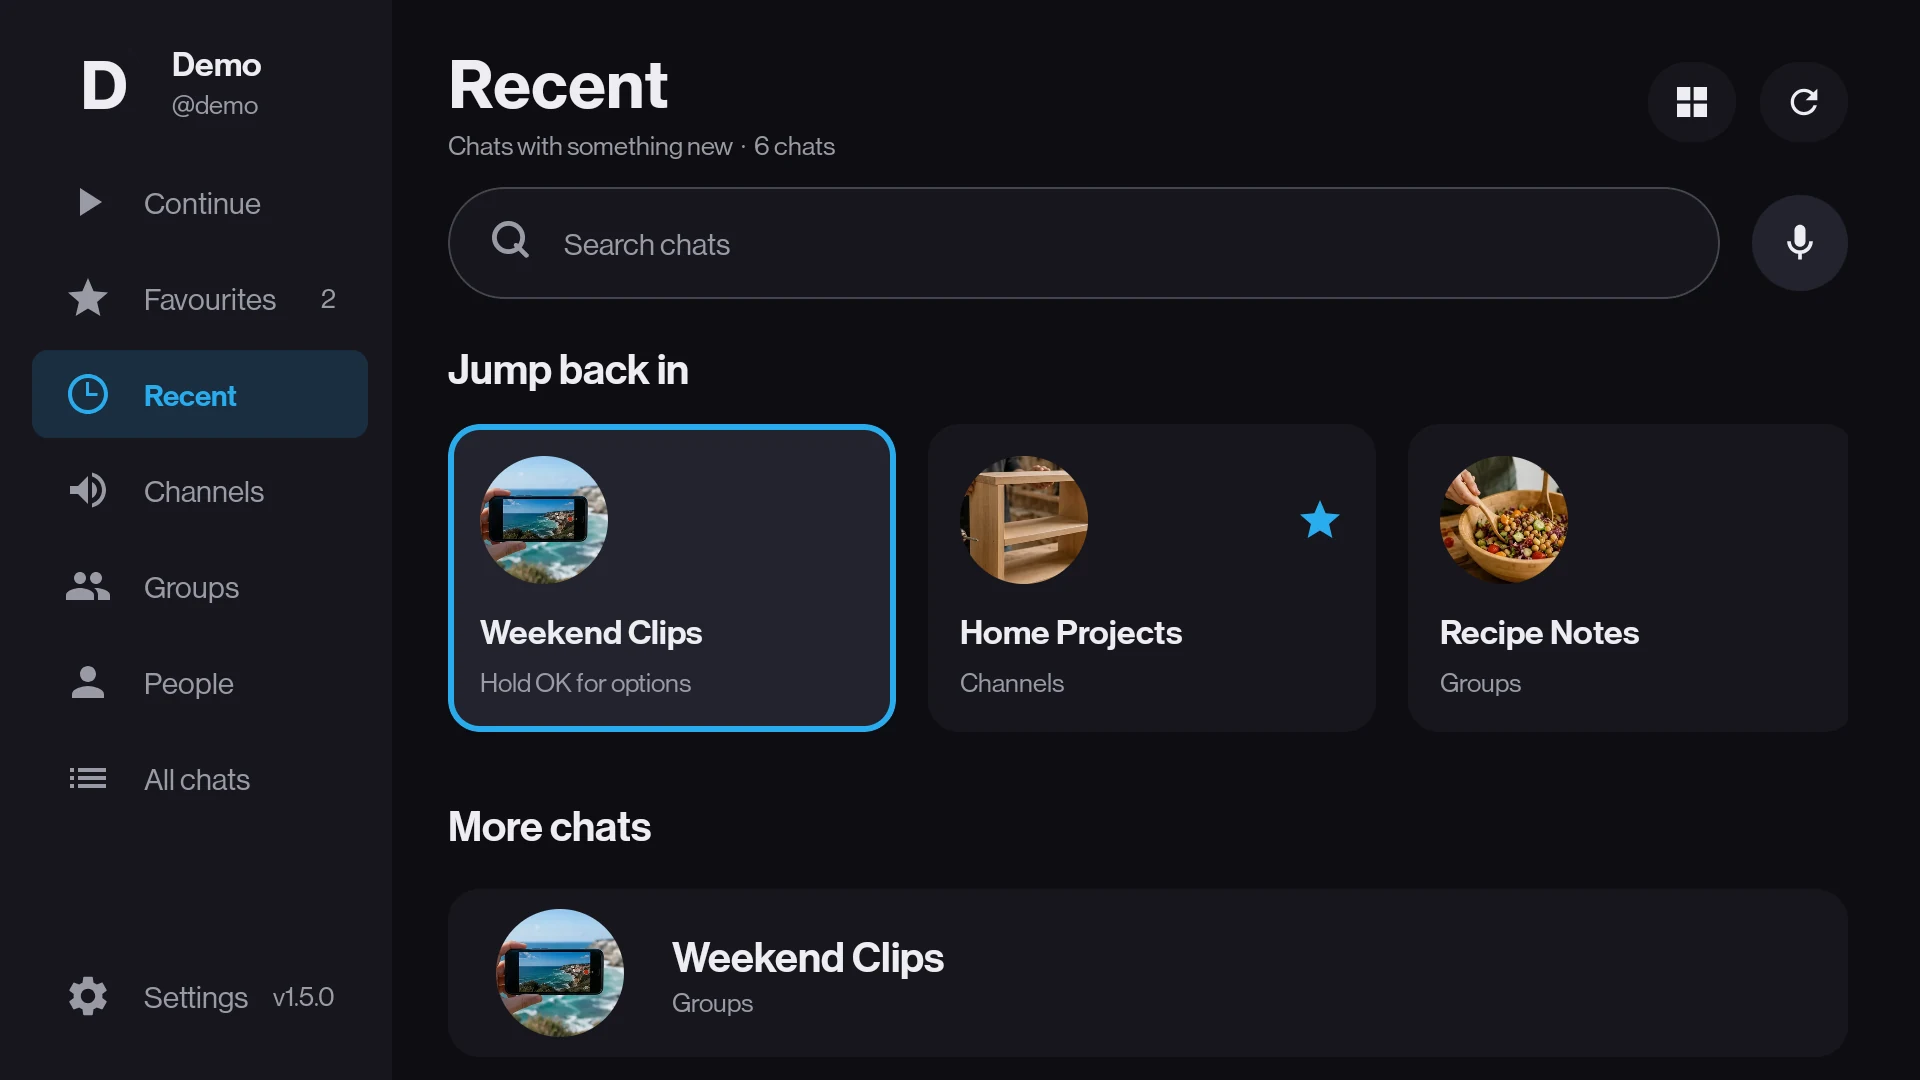
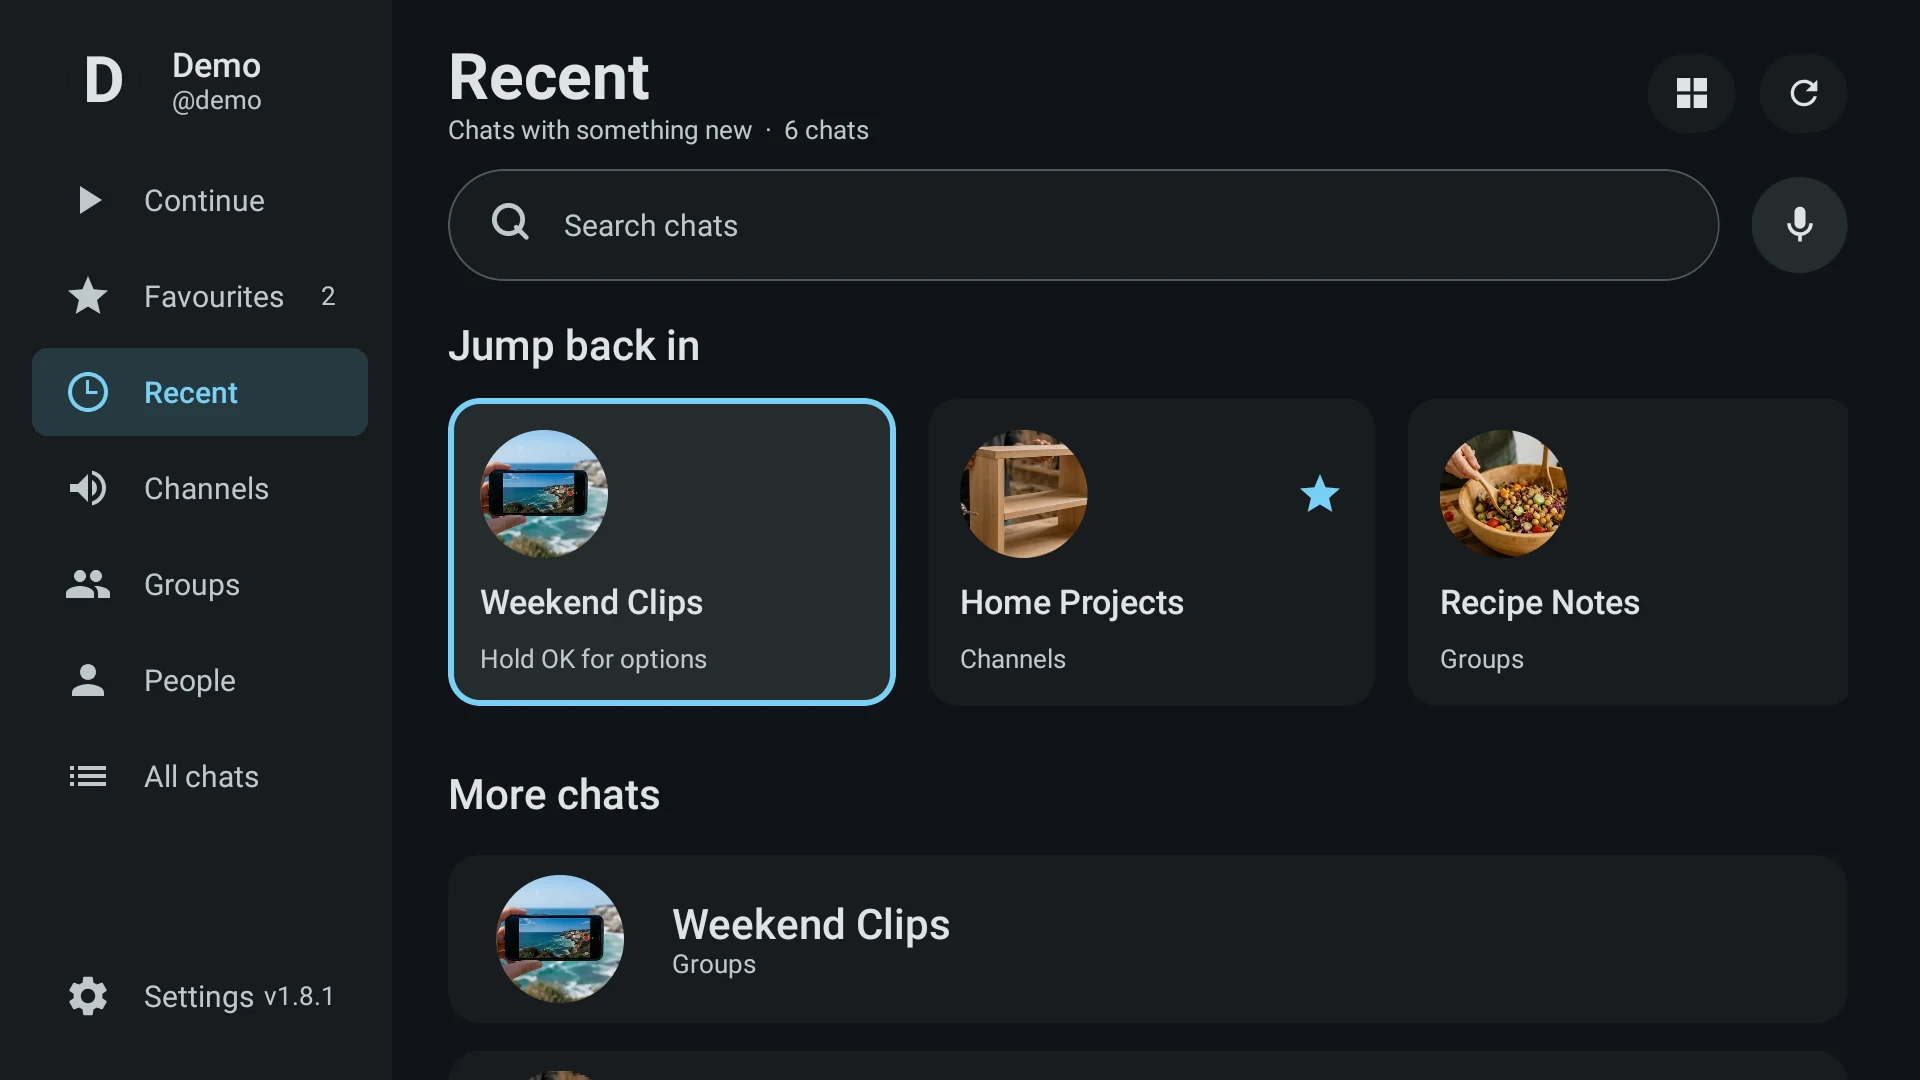
feat: the television shots are demo content, and there are light ones now
Taken from the promo build on the stick rather than from a signed-in install, so
nothing on screen belongs to anybody and the pictures can be published as they
are. Three screens, each in both themes: the chat list, a chat's videos, and
settings.

The light TV files are wired into the site the way the phone ones already were,
a source carrying the light picture and the img carrying the dark, so a reader
downloads one of the two and the theme toggle can swap them.

The settings shot is also the first published picture of the focus fix: the
focused range row reads dark on the accent instead of white on it.

diff --git a/site/index.html b/site/index.html
@@ -280,7 +280,10 @@
       <figure class="showcase">
         <div class="device device-tv">
           <div class="screen">
-            <img src="screenshots/tv-grid.webp" alt="TMPlayer on a television, showing the videos in a Telegram chat as a grid of tiles with running times and file sizes." width="1920" height="1080" fetchpriority="high" decoding="async">
+            <picture>
+              <source data-theme-src srcset="screenshots/tv-grid-light.webp" media="(prefers-color-scheme: light)">
+              <img src="screenshots/tv-grid.webp" alt="TMPlayer on a television, showing the videos in a Telegram chat as a grid of tiles with running times and file sizes." width="1920" height="1080" fetchpriority="high" decoding="async">
+            </picture>
           </div>
           <div class="stand"></div>
           <div class="foot"></div>
@@ -417,7 +420,10 @@
         <figure class="shot" data-reveal>
           <div class="device device-tv">
             <div class="screen">
-              <img src="screenshots/tv-chats.webp" alt="The same chat list on a television, with a navigation rail down the left for Continue, Favourites, Recent, Channels, Groups, People and All chats." width="1920" height="1080" loading="lazy" decoding="async">
+              <picture>
+                <source data-theme-src srcset="screenshots/tv-chats-light.webp" media="(prefers-color-scheme: light)">
+                <img src="screenshots/tv-chats.webp" alt="The same chat list on a television, with a navigation rail down the left for Continue, Favourites, Recent, Channels, Groups, People and All chats." width="1920" height="1080" loading="lazy" decoding="async">
+              </picture>
             </div>
             <div class="stand"></div>
             <div class="foot"></div>
@@ -428,7 +434,10 @@
         <figure class="shot" data-reveal>
           <div class="device device-tv">
             <div class="screen">
-              <img src="screenshots/tv-settings.webp" alt="TMPlayer settings on a television, showing the video size limits, autoplay of the next episode and how much storage is free." width="1920" height="1080" loading="lazy" decoding="async">
+              <picture>
+                <source data-theme-src srcset="screenshots/tv-settings-light.webp" media="(prefers-color-scheme: light)">
+                <img src="screenshots/tv-settings.webp" alt="TMPlayer settings on a television, showing the video size limits, autoplay of the next episode and how much storage is free." width="1920" height="1080" loading="lazy" decoding="async">
+              </picture>
             </div>
             <div class="stand"></div>
             <div class="foot"></div>
